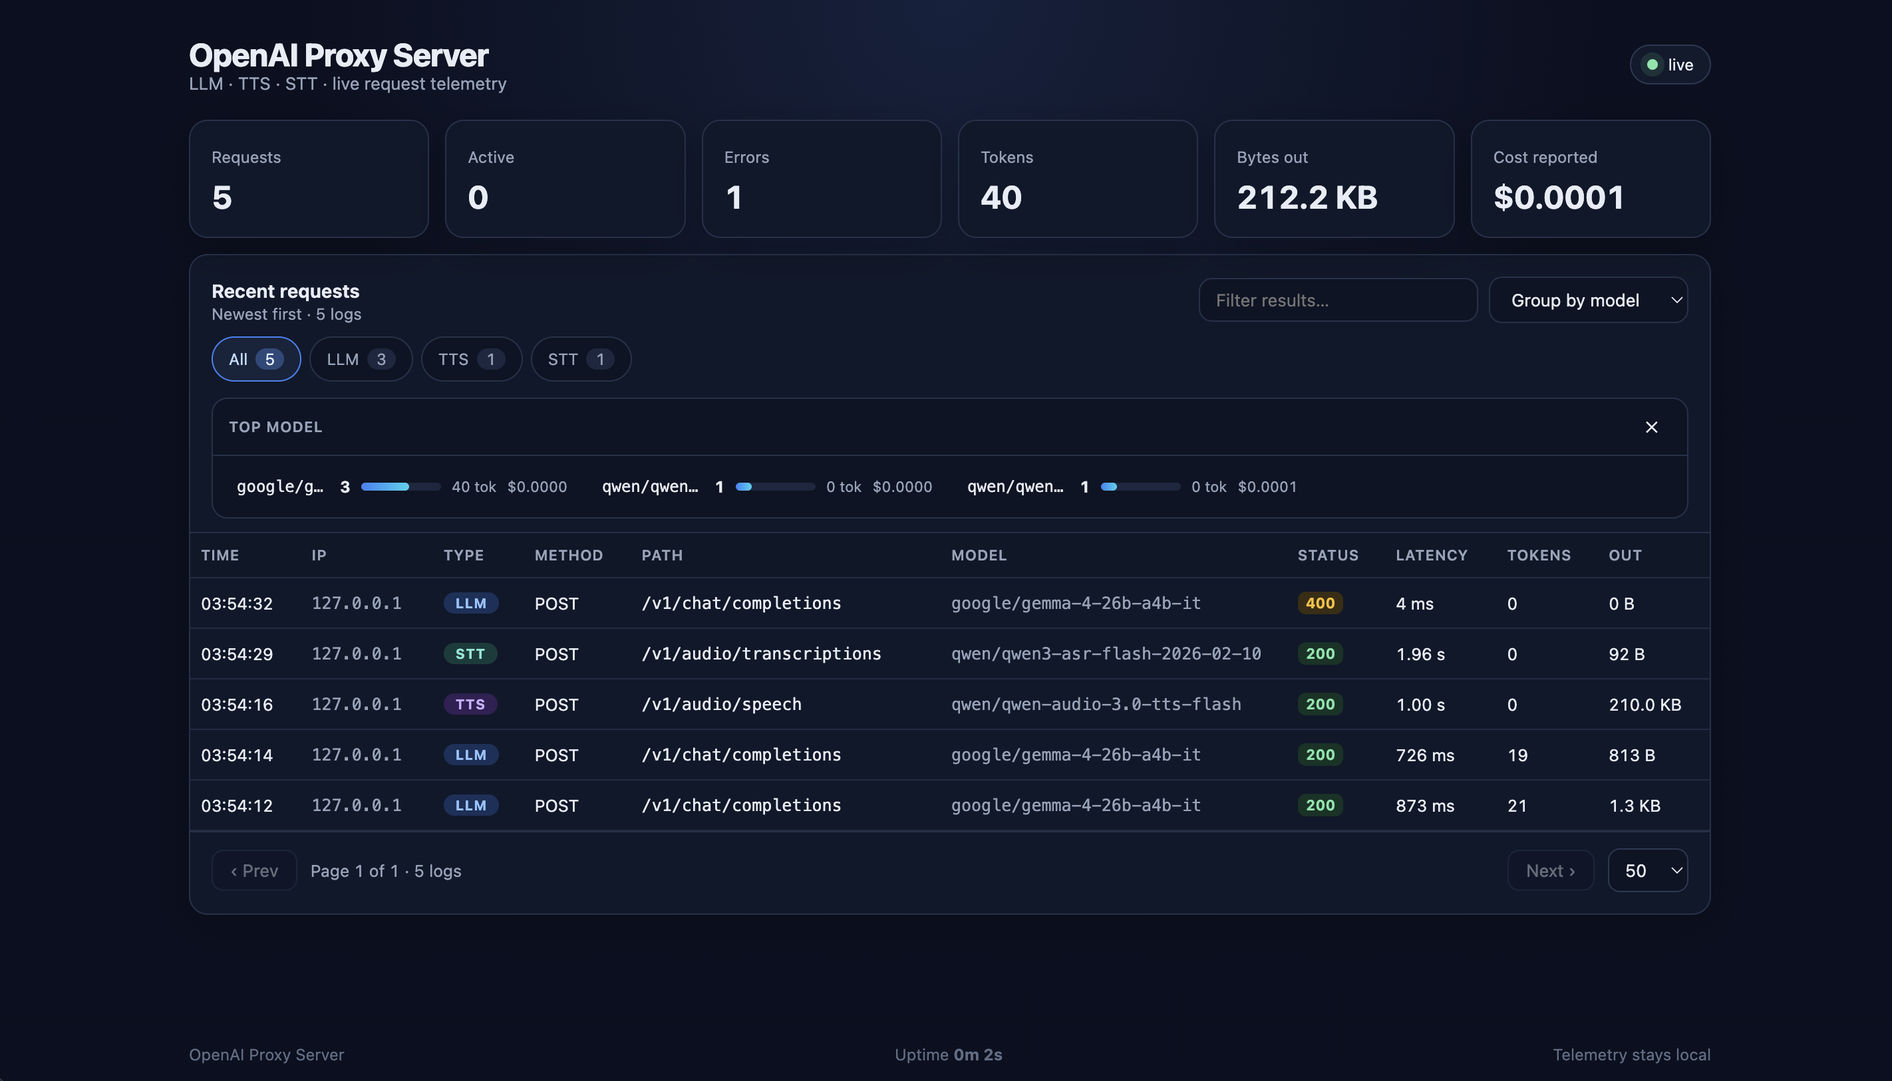
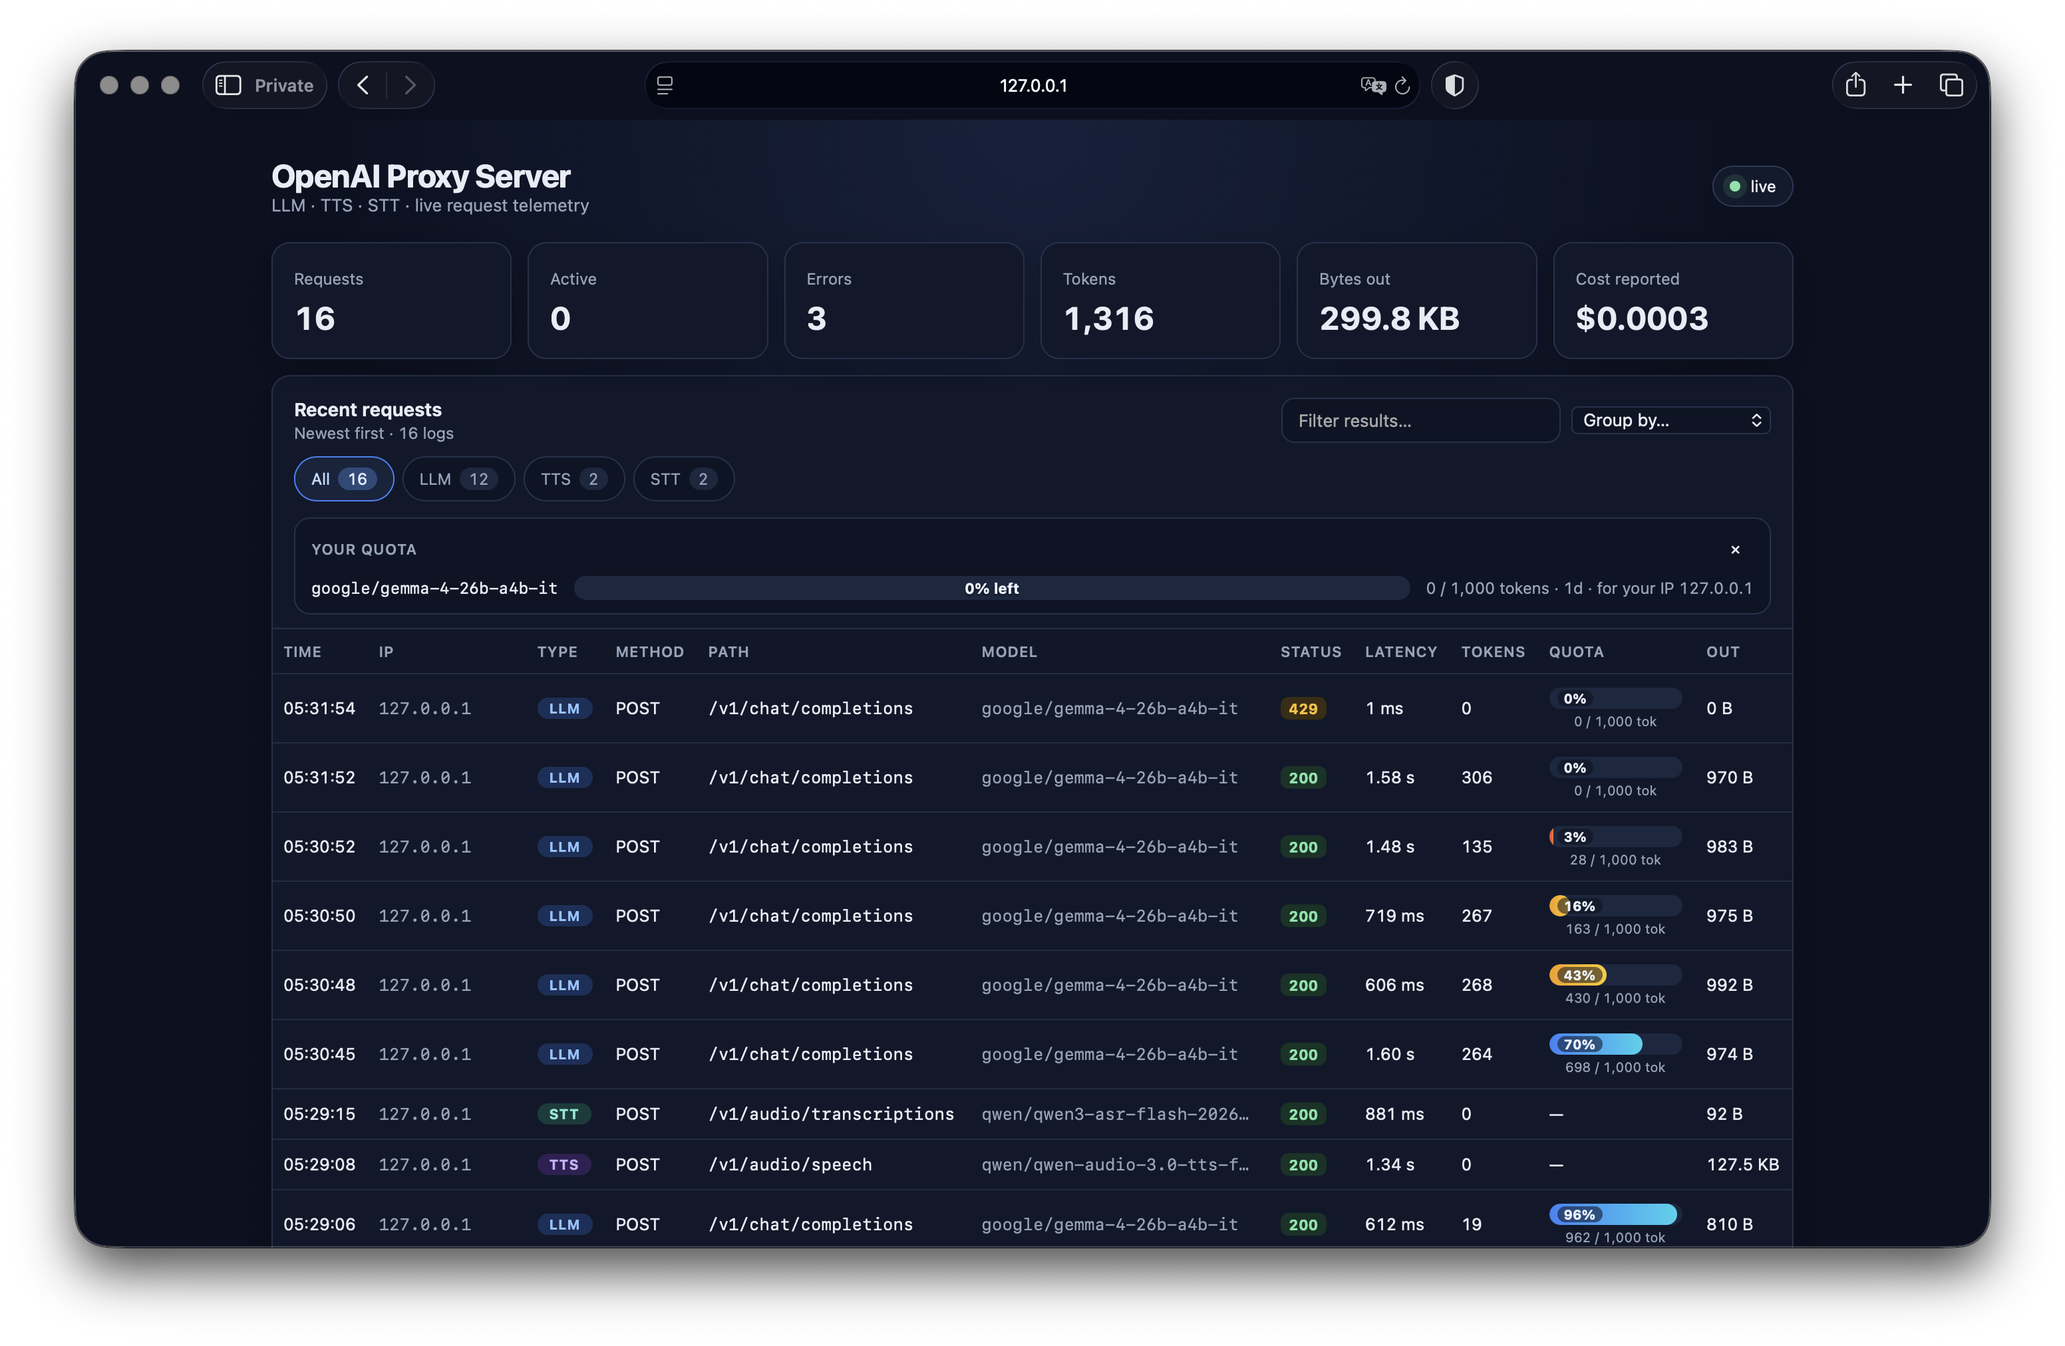
fix: /v1 probe handling, quota UI polish, friendly EADDRINUSE hint; update dashboard screenshot
- GET|HEAD /v1 modified-answered locally with a small JSON hint instead of
  proxying the upstream 404 HTML page (no log/stats row)
- Quota column: stacked bar + remaining tokens; 'Your quota' panel labels;
  post-request remaining shown on rows
- bin: clear EADDRINUSE message with how to stop the other instance
- docs: /api/quota endpoint

v0.2.1

diff --git a/src/dashboard.js b/src/dashboard.js
@@ -1,3 +1,5 @@
+import { quotaSnapshots } from './quota.js';
+
 export const faviconSvg = String.raw`<svg xmlns="http://www.w3.org/2000/svg" viewBox="0 0 64 64">
 <defs><linearGradient id="bg" x1="0" y1="0" x2="1" y2="1"><stop offset="0" stop-color="#15213d"/><stop offset="1" stop-color="#0b1020"/></linearGradient></defs>
 <rect width="64" height="64" rx="14" fill="url(#bg)" stroke="#25314b" stroke-width="2"/>
@@ -51,9 +53,20 @@ input#search:focus,.ctl:focus{border-color:#3b82f6;box-shadow:0 0 0 3px #3b82f62
 .gbar i{display:block;height:100%;background:linear-gradient(90deg,#3b82f6,#22d3ee);border-radius:99px}
 .gtok{color:var(--muted);font-size:11px;font-variant-numeric:tabular-nums}
 .gcost{color:var(--muted);font-size:11px;font-variant-numeric:tabular-nums}
+.quotabanner{display:flex;flex-direction:column;gap:8px;margin:0 16px 10px;border:1px solid var(--line);border-radius:12px;background:#0d1424;padding:10px 12px}
+.qb-head{display:flex;justify-content:space-between;align-items:center;color:var(--muted);font-size:11px;font-weight:600;letter-spacing:.05em;text-transform:uppercase}
+.qb-list{display:flex;flex-direction:column;gap:8px}
+.qrow{display:flex;align-items:center;gap:12px;flex-wrap:wrap}
+.qname{font-family:ui-monospace,SFMono-Regular,Menlo,monospace;font-size:12px;min-width:170px;overflow:hidden;text-overflow:ellipsis;white-space:nowrap}
+.qbig{flex:1;min-width:180px;height:18px;background:#1b2740;border-radius:99px;position:relative;overflow:hidden}
+.qbig i{display:block;height:100%;background:linear-gradient(90deg,#22c55e,#22d3ee);border-radius:99px}
+.qbig i.warn{background:linear-gradient(90deg,#f59e0b,#facc15)}
+.qbig i.low{background:linear-gradient(90deg,#ef4444,#f97316)}
+.qbig b{position:absolute;inset:0;display:flex;align-items:center;justify-content:center;font-size:11px;font-weight:700;color:#eaf2ff;text-shadow:0 1px 2px #000a}
+.qmeta{color:var(--muted);font-size:12px;font-variant-numeric:tabular-nums}
 .tablewrap{overflow:auto;max-height:58vh;-webkit-overflow-scrolling:touch;border-top:1px solid var(--line)}
 .tablewrap.empty-state{display:flex;align-items:center;justify-content:center;min-height:340px;max-height:none}
-table{width:100%;border-collapse:collapse;font-size:12.5px;min-width:960px}
+table{width:100%;border-collapse:collapse;font-size:12.5px;min-width:1000px}
 th,td{text-align:left;padding:10px 8px;border-bottom:1px solid #202c44;white-space:nowrap;font-variant-numeric:tabular-nums}
 th{color:var(--muted);font-weight:600;position:sticky;top:0;background:#0f1728;z-index:1;font-size:11px;letter-spacing:.04em;text-transform:uppercase}
 tbody tr{transition:background .12s}
@@ -61,12 +74,14 @@ tbody tr:hover{background:#131d33}
 td.c-path{font-family:ui-monospace,SFMono-Regular,Menlo,monospace;max-width:320px;overflow:hidden;text-overflow:ellipsis}
 td.c-model{max-width:220px;overflow:hidden;text-overflow:ellipsis;font-family:ui-monospace,SFMono-Regular,Menlo,monospace;color:var(--muted)}
 td.c-ip{color:var(--muted);font-family:ui-monospace,SFMono-Regular,Menlo,monospace}
-.c-quota{min-width:86px;text-align:center}
-.qbar{display:inline-flex;align-items:center;gap:0;min-width:64px;max-width:120px;height:16px;background:#1b2740;border-radius:99px;overflow:hidden;position:relative;padding:0 6px;font-variant-numeric:tabular-nums}
+.c-quota{min-width:108px}
+.qcell{display:inline-flex;flex-direction:column;align-items:stretch;gap:3px;min-width:100px;max-width:150px;font-variant-numeric:tabular-nums}
+.qbar{display:flex;align-items:center;height:16px;background:#1b2740;border-radius:99px;overflow:hidden;position:relative;padding:0 6px}
 .qbar i{display:block;height:100%;background:linear-gradient(90deg,#3b82f6,#22d3ee);border-radius:99px;position:absolute;left:0;top:0}
 .qbar b{position:relative;z-index:1;font-size:10px;font-weight:700;color:#eaf2ff;white-space:nowrap;background:rgba(11,16,32,.55);border-radius:99px;padding:0 5px}
 .qbar.low i{background:linear-gradient(90deg,#ef4444,#f97316)}
 .qbar.mid i{background:linear-gradient(90deg,#f59e0b,#facc15)}
+.qleft{color:var(--muted);font-size:10px;text-align:center;white-space:nowrap}
 .badge{display:inline-block;border-radius:999px;padding:2px 9px;font-size:10.5px;font-weight:700;letter-spacing:.05em}
 .badge.llm{background:#19305a;color:#8fc3ff}
 .badge.tts{background:#312055;color:#c9b0ff}
@@ -92,7 +107,7 @@ select#pageSize{background:#0d1424;border:1px solid var(--line2);color:var(--tex
 footer{display:flex;justify-content:space-between;gap:12px;flex-wrap:wrap;padding:18px 28px;color:#5f6d85;font-size:12px;max-width:1200px;margin:0 auto;width:100%}
 .live{width:8px;height:8px;border-radius:50%;background:var(--ok);display:inline-block;box-shadow:0 0 0 5px #4ade8020}
 @media(max-width:820px){main{padding:20px 16px}.grid{grid-template-columns:repeat(2,minmax(0,1fr))}.metric b{font-size:20px}.listbar{flex-direction:column;align-items:stretch}.ltools{justify-content:flex-start;width:100%}}
-@media(max-width:620px){.grid{grid-template-columns:repeat(2,minmax(0,1fr));gap:8px}.card{padding:12px;border-radius:12px}.metric b{font-size:18px}.metric span{font-size:11px}.listbar{gap:10px;padding:14px 12px 10px}.ltools{flex-wrap:wrap;width:100%}.ltools #search{flex:1 1 100%;font-size:16px}.ltools .ctl{flex:1 1 100%;font-size:16px}.ltools .pbtn{flex:0 0 auto}.chips{flex-wrap:nowrap;overflow-x:auto;-webkit-overflow-scrolling:touch;scrollbar-width:none;padding:0 12px 10px}.chips::-webkit-scrollbar{display:none}.chip.fchip .fval{max-width:150px}th,td{padding:8px 6px;font-size:12px}.tablewrap{max-height:52vh}.pager{padding:10px 12px 12px}.pbtn{flex:1;min-height:40px;padding:8px 10px}.pinfo{flex-basis:100%;text-align:center}.grow{min-height:38px}.glist{grid-template-columns:1fr}thead th.c-model,td.c-model,thead th.c-out,td.c-out{display:none}header{align-items:flex-start;flex-direction:column;gap:10px}.title{font-size:20px}.pill{align-self:flex-end}.tablewrap.empty-state{min-height:240px}.empty svg{width:52px;height:52px}.groups{margin:0 12px 8px}}
+@media(max-width:620px){.grid{grid-template-columns:repeat(2,minmax(0,1fr));gap:8px}.card{padding:12px;border-radius:12px}.metric b{font-size:18px}.metric span{font-size:11px}.listbar{gap:10px;padding:14px 12px 10px}.ltools{flex-wrap:wrap;width:100%}.ltools #search{flex:1 1 100%;font-size:16px}.ltools .ctl{flex:1 1 100%;font-size:16px}.ltools .pbtn{flex:0 0 auto}.chips{flex-wrap:nowrap;overflow-x:auto;-webkit-overflow-scrolling:touch;scrollbar-width:none;padding:0 12px 10px}.chips::-webkit-scrollbar{display:none}.chip.fchip .fval{max-width:150px}th,td{padding:8px 6px;font-size:12px}.tablewrap{max-height:52vh}.pager{padding:10px 12px 12px}.pbtn{flex:1;min-height:40px;padding:8px 10px}.pinfo{flex-basis:100%;text-align:center}.grow{min-height:38px}.glist{grid-template-columns:1fr}thead th.c-model,td.c-model,thead th.c-out,td.c-out{display:none}header{align-items:flex-start;flex-direction:column;gap:10px}.title{font-size:20px}.pill{align-self:flex-end}.tablewrap.empty-state{min-height:240px}.empty svg{width:52px;height:52px}.qrow{flex-direction:column;align-items:stretch;gap:6px}.qname,.qbig{min-width:0}.groups{margin:0 12px 8px}}
 @media(max-width:380px){main{padding:14px 10px}.card{padding:10px;border-radius:10px}.metric b{font-size:16px}.title{font-size:18px}.grid{gap:6px}.sub{font-size:12px}}
 `;
 
@@ -125,6 +140,10 @@ const body = `
 </div>
 </div>
 <div class="chips" id="chips"></div>
+<div class="quotabanner" id="quotaBanner" hidden>
+<div class="qb-head"><span title="Limits that apply to the IP viewing this dashboard">Your quota</span><button class="pbtn tiny" id="quotaClose" title="Hide quota panel">✕</button></div>
+<div class="qb-list" id="quotaList"></div>
+</div>
 <div class="groups" id="groups" hidden>
 <div class="ghead"><span id="groupsTitle">Groups</span><button class="pbtn tiny" id="groupsClose" title="Close grouping">✕</button></div>
 <div class="glist" id="groupsList"></div>
@@ -135,7 +154,7 @@ const body = `
 <b id="emptyTitle">No requests yet</b>
 <span id="emptySub">Requests proxied through this server will show up here in real time.</span>
 </div>
-<table id="logTable" hidden><thead><tr><th>Time</th><th>IP</th><th>Type</th><th>Method</th><th>Path</th><th class="c-model">Model</th><th>Status</th><th>Latency</th><th>Tokens</th><th class="c-quota">Quota</th><th class="c-out">Out</th></tr></thead><tbody id="rows"></tbody></table>
+<table id="logTable" hidden><thead><tr><th>Time</th><th>IP</th><th>Type</th><th>Method</th><th>Path</th><th class="c-model">Model</th><th>Status</th><th>Latency</th><th>Tokens</th><th class="c-quota" title="Remaining usage for matching limits">Quota</th><th class="c-out">Out</th></tr></thead><tbody id="rows"></tbody></table>
 </div>
 <div class="pager" id="pager"><button class="pbtn" id="prevBtn">‹ Prev</button><span class="pinfo" id="pageInfo">Page 1 of 1</span><button class="pbtn" id="nextBtn">Next ›</button><select id="pageSize" aria-label="Rows per page"><option>20</option><option selected>50</option><option>100</option></select><button class="pbtn accent hidden" id="latestBtn">Go to latest</button></div>
 </section>
@@ -153,10 +172,14 @@ const kindInfo = (k) => { k = (k || 'openai').toLowerCase(); return k === 'stt' 
 const statusCls = (s) => !s ? 'bad' : s < 400 ? 'ok' : s < 500 ? 'warn' : 'bad';
 const quotaCell = (q) => {
   if (!q) return '<span class="muted">—</span>';
-  const cls = q.pct <= 15 ? ' low' : q.pct <= 40 ? ' mid' : '';
-  const where = q.scope === 'ip' ? ' (IP ' + q.key + ')' : '';
-  const title = 'Remaining ' + q.remaining + ' of ' + q.max + ' ' + q.metric + ' in ' + (q.windowLabel || '') + where;
-  return '<span class="qbar' + cls + '" title="' + esc(title) + '"><i style="width:' + q.pct + '%"></i><b>' + q.pct + '%</b></span>';
+  const cls = q.pct <= 15 ? ' low' : q.pct <= 50 ? ' mid' : '';
+  const where = q.scope === 'ip' ? ' for IP ' + q.key : ' for all requests';
+  const title = 'Remaining ' + q.remaining + ' of ' + q.max + ' ' + q.metric + ' in ' + (q.windowLabel || '') + where + (q.model ? ' · ' + q.model : '');
+  const short = q.metric === 'tokens' ? 'tok' : 'req';
+  return '<span class="qcell" title="' + esc(title) + '">' +
+    '<span class="qbar' + cls + '"><i style="width:' + q.pct + '%"></i><b>' + q.pct + '%</b></span>' +
+    '<span class="qleft">' + fmt(q.remaining) + ' / ' + fmt(q.max) + ' ' + short + '</span>' +
+    '</span>';
 };
 
 const token = new URLSearchParams(location.search).get('token');
@@ -303,8 +326,34 @@ async function loadGroups() {
   } catch {}
 }
 
+async function loadQuota() {
+  try {
+    const res = await fetch(base + '/api/quota' + (token ? '?token=' + encodeURIComponent(token) : ''));
+    const data = await res.json();
+    renderQuota(Array.isArray(data) ? null : data);
+  } catch {}
+}
+
+function renderQuota(data) {
+  const box = $('quotaBanner');
+  if (!data || !data.quotas || !data.quotas.length) { box.hidden = true; return; }
+  box.hidden = false;
+  $('quotaList').innerHTML = data.quotas.map((q) => {
+    const label = q.name || q.model || q.metric;
+    const cls = q.pct <= 15 ? ' low' : q.pct <= 50 ? ' warn' : '';
+    const unit = q.metric === 'tokens' ? 'tokens' : 'requests';
+    const scope = q.scope === 'ip' ? 'for your IP ' + q.key : 'shared by all requests';
+    const title = (q.name ? q.name + ' · ' : '') + (q.model || q.metric) + ' · ' + q.used + '/' + q.max + ' ' + unit + ' · shown for the client IP viewing this dashboard';
+    return '<div class="qrow" title="' + esc(title) + '">' +
+      '<span class="qname">' + esc(label) + '</span>' +
+      '<span class="qbig"><i class="' + cls + '" style="width:' + q.pct + '%"></i><b>' + q.pct + '% left</b></span>' +
+      '<span class="qmeta">' + fmt(q.remaining) + ' / ' + fmt(q.max) + ' ' + unit + ' · ' + (q.windowLabel || '') + ' · ' + esc(scope) + '</span>' +
+      '</div>';
+  }).join('');
+}
+
 let refreshTimer = null;
-function scheduleRefresh() { clearTimeout(refreshTimer); refreshTimer = setTimeout(() => { loadLogs(); loadGroups(); }, 400); }
+function scheduleRefresh() { clearTimeout(refreshTimer); refreshTimer = setTimeout(() => { loadLogs(); loadGroups(); loadQuota(); }, 400); }
 
 function render(s) {
   $('requests').textContent = fmt(s.totals.requests);
@@ -368,6 +417,7 @@ $('groupsList').addEventListener('click', (e) => {
 });
 $('groupBy').addEventListener('change', (e) => { state.groupBy = e.target.value; state.page = 1; loadLogs(); loadGroups(); });
 $('groupsClose').addEventListener('click', () => { state.groupBy = 'none'; $('groupBy').value = 'none'; $('groups').hidden = true; });
+$('quotaClose').addEventListener('click', () => { $('quotaBanner').hidden = true; });
 $('pageSize').addEventListener('change', (e) => { state.pageSize = Number(e.target.value); state.page = 1; loadLogs(); });
 $('prevBtn').addEventListener('click', () => { if (state.page > 1) { state.page--; loadLogs(); } });
 $('nextBtn').addEventListener('click', () => { if (state.page < Math.ceil(state.total / state.pageSize)) { state.page++; loadLogs(); } });
@@ -379,6 +429,7 @@ es.onerror = () => { $('conn').textContent = 'reconnecting'; };
 es.onmessage = (e) => { try { const d = JSON.parse(e.data); if (d.snapshot) render(d.snapshot); } catch {} };
 
 loadLogs();
+loadQuota();
 `;
 
 const page = `<!doctype html>
@@ -431,7 +482,7 @@ function readLogFilterParams(url) {
   };
 }
 
-export function serveDashboard(req, res, { config, stats }) {
+export function serveDashboard(req, res, { config, stats, quotaStore, quotaRules }) {
   const url = new URL(req.url, 'http://localhost');
   const base = config.dashboardPath;
   if (!url.pathname.startsWith(base)) return false;
@@ -520,6 +571,19 @@ export function serveDashboard(req, res, { config, stats }) {
 
     res.writeHead(200, { 'content-type': 'application/json', 'cache-control': 'no-store' });
     res.end(JSON.stringify({ field, total: filtered.length, groups }));
+    return true;
+  }
+
+  if (url.pathname === base + '/api/quota') {
+    if (!quotaRules || !quotaRules.length) {
+      res.writeHead(200, { 'content-type': 'application/json', 'cache-control': 'no-store' });
+      res.end(JSON.stringify({ clientIp: String(req.socket.remoteAddress || '').replace(/^::ffff:/, ''), quotas: [] }));
+      return true;
+    }
+    const clientIp = String(req.socket.remoteAddress || '').replace(/^::ffff:/, '');
+    const quotas = quotaSnapshots(quotaStore, quotaRules, clientIp);
+    res.writeHead(200, { 'content-type': 'application/json', 'cache-control': 'no-store' });
+    res.end(JSON.stringify({ clientIp, quotas }));
     return true;
   }
 

diff --git a/src/server.js b/src/server.js
@@ -167,11 +167,27 @@ export function createProxyServer(config, stats = new StatsStore({ file: config.
       }
     }
 
-    if (serveDashboard(req, res, { config, stats })) return;
+    if (serveDashboard(req, res, { config, stats, quotaStore, quotaRules })) return;
 
     const localUrl = new URL(req.url, 'http://localhost');
     if (isBrowserNoise(localUrl.pathname)) {
       jsonError(res, 404, 'not_found', 'Not found', config);
+      return;
+    }
+
+    // A bare GET /v1 (browser address bar or SDK base-URL probe) is answered
+    // locally instead of forwarding the upstream's 404 HTML page.
+    if ((req.method === 'GET' || req.method === 'HEAD') && (localUrl.pathname === '/v1' || localUrl.pathname === '/v1/')) {
+      const body = JSON.stringify({
+        service: 'openai-proxy-server',
+        endpoints: { api: '/v1/chat/completions', dashboard: `${config.dashboardPath}/` }
+      });
+      res.writeHead(200, {
+        'content-type': 'application/json; charset=utf-8',
+        'content-length': Buffer.byteLength(body),
+        ...(config.corsOrigin ? { 'access-control-allow-origin': config.corsOrigin } : {})
+      });
+      res.end(body);
       return;
     }
 
@@ -224,6 +240,10 @@ export function createProxyServer(config, stats = new StatsStore({ file: config.
           const amount = rule.metric === 'requests' ? 1 : (log.usage?.totalTokens || 0);
           quotaStore.record(rule, rule.ruleId, scopeValue(rule, clientIp), amount);
         }
+        // Show the remaining AFTER this request consumed usage, so the first
+        // request is e.g. 98% (not 100%) once its tokens were counted.
+        const after = strictest(quotaSnapshots(quotaStore, matchedQuotaRules, clientIp));
+        if (after) log.quota = after;
       }
       logLine(config, log);
     };

diff --git a/test/integration.test.js b/test/integration.test.js
@@ -234,6 +234,13 @@ test('enforces per-IP token quota and reports remaining headers', async (t) => {
   await new Promise((resolve) => setTimeout(resolve, 20));
   assert.ok(stats.logs.some((l) => l.status === 429 && l.quota && l.quota.name === 'llm-week'), '429 logged with quota');
   assert.ok(stats.logs.filter((l) => l.status === 200).every((l) => l.quota && Number.isInteger(l.quota.pct)), '200 rows carry quota pct');
+
+  // /api/quota exposes the current limit state for the requesting IP.
+  const quotaApi = await (await fetch(`http://127.0.0.1:${proxyPort}/_proxy/api/quota`)).json();
+  assert.equal(quotaApi.clientIp, '127.0.0.1');
+  assert.equal(quotaApi.quotas.length, 1);
+  assert.equal(quotaApi.quotas[0].name, 'llm-week');
+  assert.equal(quotaApi.quotas[0].remaining, 0);
 });
 
 test('quota rules without model matcher apply to multipart uploads by kind', async (t) => {
@@ -332,6 +339,13 @@ test('serves favicon locally without recording stats/logs or hitting upstream', 
     const res = await fetch(`http://127.0.0.1:${proxyPort}${noisePath}`);
     assert.equal(res.status, 404, `${noisePath} must not be proxied`);
   }
+
+  // Bare GET /v1 is answered locally with a small JSON hint (no upstream, no logs).
+  const v1 = await fetch(`http://127.0.0.1:${proxyPort}/v1`);
+  assert.equal(v1.status, 200);
+  assert.match(await v1.text(), /openai-proxy-server/);
+  const v1head = await fetch(`http://127.0.0.1:${proxyPort}/v1/`, { method: 'HEAD' });
+  assert.equal(v1head.status, 200);
   await new Promise(resolve => setTimeout(resolve, 20));
 
   assert.equal(stats.totals.requests, 0);

diff --git a/bin/openai-proxy-server.js b/bin/openai-proxy-server.js
@@ -18,6 +18,14 @@ if (args.includes('--version') || args.includes('-v')) {
 loadDotEnv();
 
 startServer().catch((error) => {
+  if (error?.code === 'EADDRINUSE') {
+    const port = error.port || process.env.PORT || 56787;
+    console.error(`[openai-proxy-server] Fatal: address already in use (${error.address || '0.0.0.0'}:${port}).`);
+    console.error(`[openai-proxy-server] Another instance is already listening. Stop it with:  lsof -tiTCP:${port} | xargs kill`);
+    console.error(`[openai-proxy-server] Or run a different port:  PORT=56788 npm start`);
+    process.exitCode = 1;
+    return;
+  }
   console.error('[openai-proxy-server] fatal:', error?.stack || error);
   process.exitCode = 1;
 });

diff --git a/README.md b/README.md
@@ -265,6 +265,7 @@ API endpoints:
 GET /_proxy/api/stats
 GET /_proxy/api/logs?limit=&offset=&kind=&ip=&model=&method=&status=&path=&hour=&q=
 GET /_proxy/api/groups?field=ip|model|method|status|kind|path|hour&limit=&kind=&ip=&model=&method=&status=&path=&hour=&q=
+GET /_proxy/api/quota   # current limits + remaining usage for the requesting IP
 GET /_proxy/events      # Server-Sent Events
 ```
 
